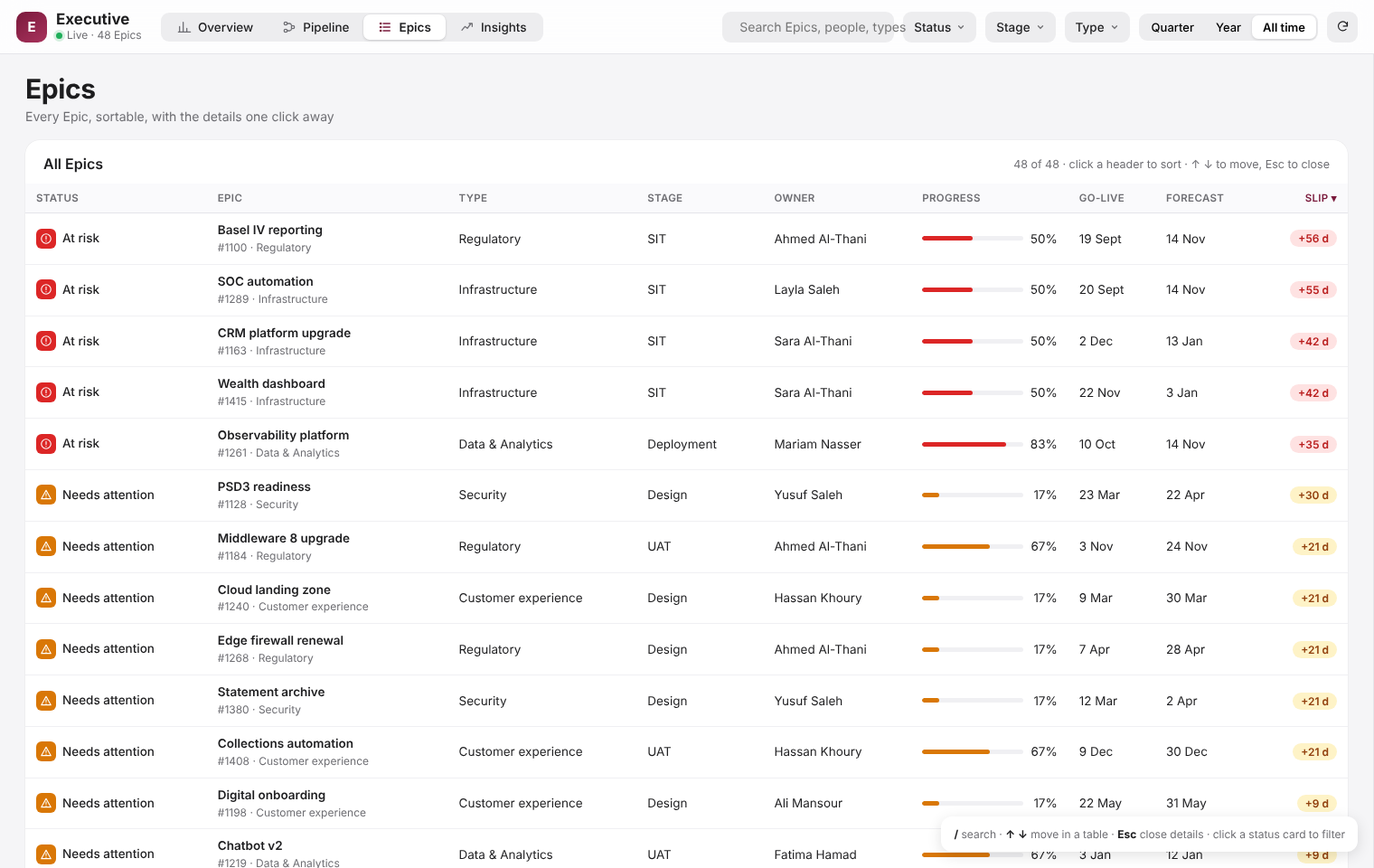
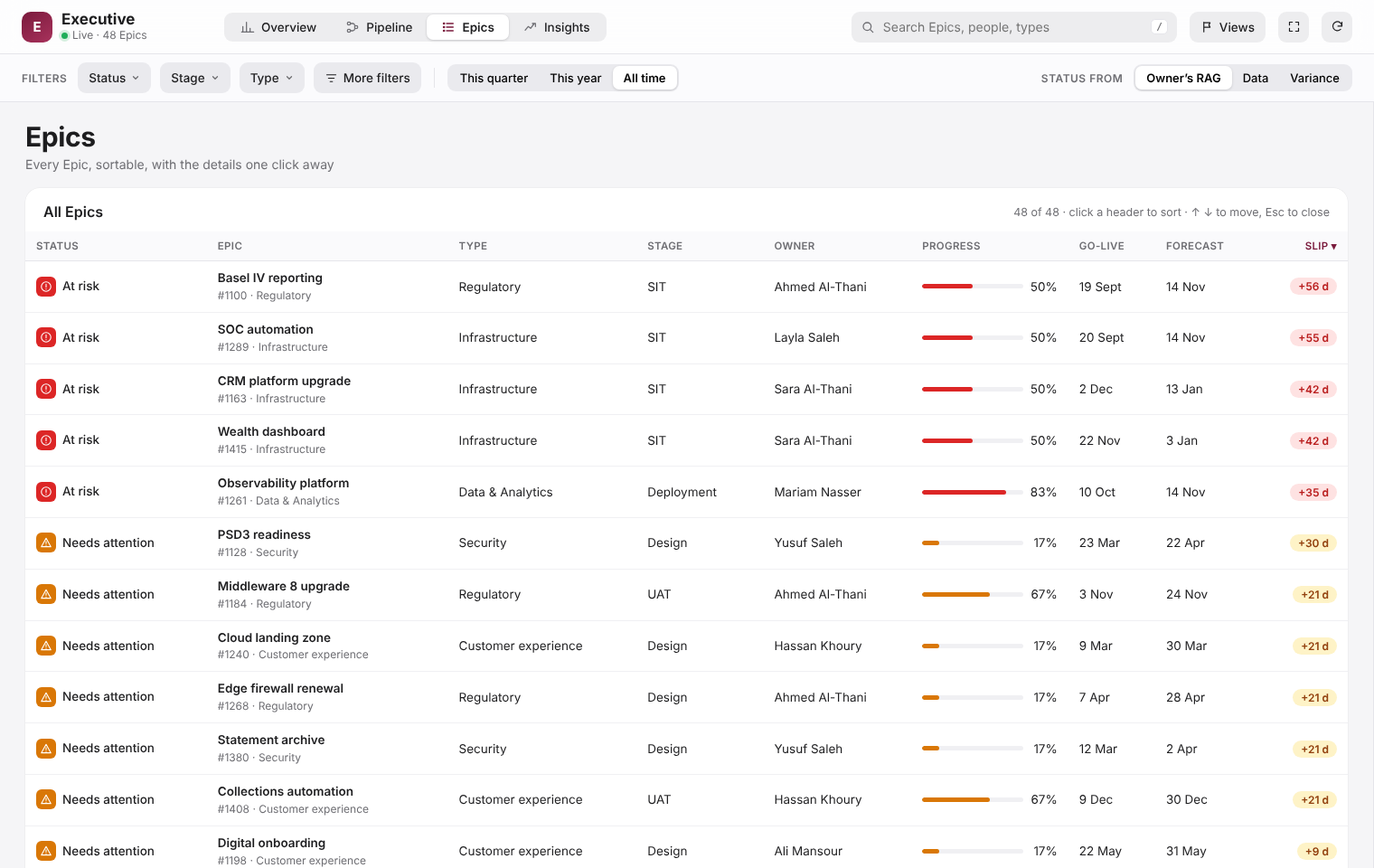
Prototype only: desktop dashboard filter bar, More filters panel, Epics tab mockups, search overlap fixed
Claude-Session: https://claude.ai/code/session_01376dPYr6LN3XTveSHPVJQG

diff --git a/prototypes/exec-dashboard-desktop.html b/prototypes/exec-dashboard-desktop.html
@@ -5,7 +5,7 @@
 .tb{display:flex;align-items:center;gap:14px;padding:12px 24px;background:rgba(255,255,255,.82);backdrop-filter:saturate(180%) blur(20px);-webkit-backdrop-filter:saturate(180%) blur(20px);border-bottom:1px solid var(--sep);flex:none;z-index:20}
 .brand{white-space:nowrap;display:flex;align-items:center;gap:10px;min-width:210px}.logo{width:34px;height:34px;border-radius:10px;background:linear-gradient(145deg,#7a1a3c,#a8325c);display:grid;place-items:center;color:#fff;font:700 15px var(--font)}.brand b{display:block;font:700 17px/1.1 var(--font)}.brand span{font-size:12px;color:var(--l2);display:flex;align-items:center;gap:5px}.live{width:7px;height:7px;border-radius:50%;background:var(--g);box-shadow:0 0 0 3px rgba(31,174,90,.18)}
 .tabs{display:flex;background:rgba(118,118,128,.12);border-radius:9px;padding:2px}.tabs button{display:flex;gap:7px;align-items:center;border:0;background:none;padding:6px 16px;border-radius:7px;font:500 13.5px var(--font);cursor:pointer;color:var(--l1);transition:all .18s}.tabs button svg{width:16px;height:16px;color:var(--l2)}.tabs button.on{background:#fff;box-shadow:0 1px 3px rgba(0,0,0,.14),0 0 0 .5px rgba(0,0,0,.04);font-weight:600}.tabs button.on svg{color:var(--acc)}
-.sp{flex:1}.srch{display:flex;align-items:center;gap:7px;background:rgba(118,118,128,.12);border-radius:9px;padding:0 10px;height:34px;width:240px;color:var(--l2);transition:all .2s}.srch:focus-within{background:#fff;box-shadow:0 0 0 3px rgba(122,26,60,.25);width:320px}.srch svg{width:16px;height:16px}.srch input{flex:1;border:0;background:none;font:14px var(--font);outline:none;color:var(--l1)}.kbd{font:600 11px ui-monospace,Menlo,monospace;border:1px solid var(--sep);border-radius:5px;padding:1px 5px;color:var(--l2);background:#fff}
+.sp{flex:1}.fb{display:flex;align-items:center;gap:10px;padding:9px 24px;background:#fbfbfd;border-bottom:1px solid var(--sep);flex:none;flex-wrap:wrap}.fb .lab{font:600 12px var(--font);color:var(--l2);text-transform:uppercase;letter-spacing:.04em;margin-right:2px}.fb .vr{width:1px;height:22px;background:var(--sep);margin:0 4px}.bdg{background:var(--acc);color:#fff;border-radius:99px;font:700 11px var(--font);padding:0 6px;min-width:18px;text-align:center;line-height:18px}.srch{display:flex;align-items:center;gap:7px;background:rgba(118,118,128,.12);border-radius:9px;padding:0 10px;height:34px;flex:0 1 360px;min-width:200px;color:var(--l2);transition:all .2s}.srch:focus-within{background:#fff;box-shadow:0 0 0 3px rgba(122,26,60,.25)}.srch input{min-width:0;text-overflow:ellipsis}.srch svg{width:16px;height:16px}.srch input{flex:1;border:0;background:none;font:14px var(--font);outline:none;color:var(--l1)}.kbd{font:600 11px ui-monospace,Menlo,monospace;border:1px solid var(--sep);border-radius:5px;padding:1px 5px;color:var(--l2);background:#fff}
 .pillb{display:flex;align-items:center;gap:6px;height:34px;border:0;border-radius:9px;padding:0 12px;background:rgba(118,118,128,.12);font:500 13.5px var(--font);cursor:pointer;color:var(--l1);transition:all .15s;white-space:nowrap}.pillb:hover{background:rgba(118,118,128,.2)}.pillb.on{background:rgba(122,26,60,.12);color:var(--acc);font-weight:600}.pillb svg{width:15px;height:15px}.pillb .cv{width:10px;height:10px;opacity:.6}.ibtn{width:34px;height:34px;padding:0;justify-content:center}
 .per{display:flex;background:rgba(118,118,128,.12);border-radius:9px;padding:2px}.per button{white-space:nowrap;border:0;background:none;padding:5px 12px;border-radius:7px;font:500 13px var(--font);cursor:pointer}.per button.on{background:#fff;box-shadow:0 1px 3px rgba(0,0,0,.14);font-weight:600}
 .body{flex:1;display:flex;min-height:0}main{flex:1;min-width:0;overflow-y:auto;padding:22px 28px 40px}main::-webkit-scrollbar,.insp::-webkit-scrollbar,.scr::-webkit-scrollbar{width:10px}main::-webkit-scrollbar-thumb,.insp::-webkit-scrollbar-thumb,.scr::-webkit-scrollbar-thumb{background:#d1d1d6;border-radius:5px;border:2px solid transparent;background-clip:content-box}
@@ -18,7 +18,7 @@
 .pill{display:inline-flex;align-items:center;gap:4px;border-radius:99px;padding:2px 9px;font:600 12px var(--font);white-space:nowrap}.pill.r{background:#fee2e2;color:#b91c1c}.pill.a{background:#fef3c7;color:#92400e}.pill.g{background:#dcfce7;color:#166534}.pill.n{background:var(--fill);color:#444}
 .dot{display:inline-block;width:9px;height:9px;border-radius:50%}.stk{display:flex;height:8px;border-radius:99px;overflow:hidden;background:var(--fill)}.stk i{display:block;border-right:1.5px solid #fff}.stk i:last-child{border:0}.prog{height:5px;border-radius:3px;background:var(--fill);overflow:hidden}.prog i{display:block;height:100%;border-radius:3px}
 table.t{width:100%;border-collapse:collapse;font-size:13.5px}table.t th{position:sticky;top:0;background:#fafafc;text-align:left;font:600 11.5px var(--font);color:var(--l2);padding:9px 12px;text-transform:uppercase;letter-spacing:.03em;border-bottom:1px solid var(--sep);white-space:nowrap;cursor:pointer;user-select:none;z-index:2}table.t th.r,table.t td.r{text-align:right}table.t th.s{color:var(--acc)}table.t th.s:after{content:" ▾"}table.t th.s.up:after{content:" ▴"}
-table.t td{padding:9px 12px;border-bottom:1px solid #f0f0f3;white-space:nowrap}table.t tr.rw{cursor:pointer;transition:background .1s}table.t tr.rw:hover td{background:#faf5f7}table.t tr.rw.sel td{background:#f6e9ee}table.t tr.rw:focus{outline:none}.ins table.cmp th:nth-child(4),.ins table.cmp td:nth-child(4){display:none}table.t td.ti{max-width:280px;overflow:hidden;text-overflow:ellipsis}table.t td.ti b{font-weight:600;display:block;overflow:hidden;text-overflow:ellipsis}table.t td.ti span{color:var(--l2);font-size:12px}.st{display:inline-flex;align-items:center;gap:7px;font-weight:500}.st i{width:22px;height:22px;border-radius:6px;display:grid;place-items:center;color:#fff}.st svg{width:14px;height:14px}
+table.t td{padding:9px 12px;border-bottom:1px solid #f0f0f3;white-space:nowrap}table.t tr.rw{cursor:pointer;transition:background .1s}table.t tr.rw:hover td{background:#faf5f7}table.t tr.rw.sel td{background:#f6e9ee}table.t tr.rw:focus{outline:none}.ins .epicsT th:nth-child(3),.ins .epicsT td:nth-child(3),.ins .epicsT th:nth-child(5),.ins .epicsT td:nth-child(5){display:none}.ins table.cmp th:nth-child(4),.ins table.cmp td:nth-child(4){display:none}table.t td.ti{max-width:280px;overflow:hidden;text-overflow:ellipsis}table.t td.ti b{font-weight:600;display:block;overflow:hidden;text-overflow:ellipsis}table.t td.ti span{color:var(--l2);font-size:12px}.st{display:inline-flex;align-items:center;gap:7px;font-weight:500}.st i{width:22px;height:22px;border-radius:6px;display:grid;place-items:center;color:#fff}.st svg{width:14px;height:14px}
 .scr{overflow:auto;max-height:420px}.flush .scr{max-height:none}
 .donutrow{display:flex;align-items:center;gap:18px}.ring{position:relative;width:104px;height:104px;flex:none}.ring svg{transform:rotate(-90deg)}.ring b{position:absolute;inset:0;display:grid;place-items:center;font:700 24px var(--font)}.kv{flex:1;display:grid;gap:10px}.kv div{display:flex;justify-content:space-between;font-size:14px}.kv span{color:var(--l2)}
 .pr{display:grid;grid-template-columns:96px 1fr 28px;gap:10px;align-items:center;padding:6px 0;cursor:pointer;border-radius:8px}.pr:hover{background:#faf5f7}.pr b{text-align:right}
@@ -46,9 +46,10 @@ table.t td{padding:9px 12px;border-bottom:1px solid #f0f0f3;white-space:nowrap}t
 .menu{position:fixed;z-index:100;background:rgba(255,255,255,.94);backdrop-filter:blur(20px);-webkit-backdrop-filter:blur(20px);border-radius:12px;box-shadow:0 12px 40px rgba(0,0,0,.2),0 0 0 .5px rgba(0,0,0,.08);min-width:200px;padding:5px;animation:pop .14s ease}.menu button{display:flex;width:100%;justify-content:space-between;align-items:center;gap:18px;border:0;background:none;padding:7px 10px;border-radius:7px;font:14px var(--font);cursor:pointer;text-align:left}.menu button:hover{background:var(--acc);color:#fff}.menu button:hover svg{color:#fff}.menu svg{width:14px;height:14px;color:var(--acc)}.menu hr{border:0;border-top:1px solid var(--sep);margin:4px 8px}
 @keyframes pop{from{opacity:0;transform:translateY(-4px) scale(.98)}to{opacity:1;transform:none}}.fade{animation:fin .3s ease both}@keyframes fin{from{opacity:0;transform:translateY(6px)}to{opacity:1;transform:none}}
 .chipsr{display:flex;gap:8px;align-items:center;padding:0 0 14px;flex-wrap:wrap}.fc{display:inline-flex;gap:6px;align-items:center;background:#f6e9ee;color:var(--acc);border-radius:99px;padding:3px 6px 3px 12px;font:500 12.5px var(--font)}.fc button{border:0;background:none;color:var(--acc);cursor:pointer;width:18px;height:18px;border-radius:9px;display:grid;place-items:center;padding:0}.fc button:hover{background:rgba(122,26,60,.15)}.fc svg{width:11px;height:11px}.clr{border:0;background:none;color:var(--acc);font:500 12.5px var(--font);cursor:pointer}
+.more{position:fixed;z-index:100;width:560px;background:rgba(255,255,255,.96);backdrop-filter:blur(20px);border-radius:16px;box-shadow:0 16px 48px rgba(0,0,0,.22),0 0 0 .5px rgba(0,0,0,.08);padding:16px 18px;animation:pop .14s ease}.more h5{margin:12px 0 7px;font:600 11.5px var(--font);text-transform:uppercase;letter-spacing:.04em;color:var(--l2)}.more h5:first-child{margin-top:0}.more .cs{display:flex;gap:6px;flex-wrap:wrap}.more .c{border:0;border-radius:99px;background:var(--fill);padding:5px 12px;font:500 13px var(--font);cursor:pointer;transition:all .12s}.more .c:hover{background:#e7e7ec}.more .c.on{background:var(--acc);color:#fff}.more .c.off{opacity:.5;cursor:default}.more .ft{display:flex;justify-content:space-between;align-items:center;margin-top:16px;padding-top:12px;border-top:1px solid var(--sep);font-size:12.5px;color:var(--l2)}.more .ft button{border:0;background:none;color:var(--acc);font:600 13px var(--font);cursor:pointer}
 .toast{position:fixed;bottom:22px;left:50%;transform:translate(-50%,20px);background:rgba(30,30,32,.9);color:#fff;border-radius:99px;padding:9px 18px;font-size:13px;opacity:0;transition:all .25s;z-index:200;pointer-events:none}.toast.on{opacity:1;transform:translate(-50%,0)}
 .empty{text-align:center;color:var(--l2);padding:34px 20px}.help{transition:opacity .6s;position:fixed;right:18px;bottom:18px;background:#fff;border-radius:12px;box-shadow:0 4px 16px rgba(0,0,0,.12);padding:10px 14px;font-size:12px;color:var(--l2);z-index:30;line-height:1.6}.help b{color:var(--l1)}
-@media (max-width:1600px){.kbd{display:none}.srch{width:190px;flex:0 1 190px}.srch:focus-within{width:260px}.brand{min-width:150px}.tb{gap:10px;padding:12px 18px}}@media (max-width:1280px){.sts{grid-template-columns:repeat(5,1fr)}.s4.hero{grid-column:span 12}}
+@media (max-width:1400px){.kbd{display:none}.brand{min-width:150px}.tb{gap:10px;padding:12px 18px}.tabs button{padding:6px 11px}}@media (max-width:1280px){.sts{grid-template-columns:repeat(5,1fr)}.s4.hero{grid-column:span 12}}
 @media (prefers-reduced-motion:reduce){*{animation:none!important;transition:none!important}}
 </style></head><body><script>const $=(s,r=document)=>r.querySelector(s),$$=(s,r=document)=>[...r.querySelectorAll(s)];
 const TODAY=new Date("2026-10-31T00:00:00Z"),DAY=864e5,iso=d=>new Date(d).toISOString().slice(0,10),addD=(d,n)=>new Date(+new Date(d)+n*DAY);
@@ -80,9 +81,10 @@ const cnt=(a,f)=>a.filter(f).length,by=(a)=>{const o={red:0,amber:0,green:0,idle
 const periodOk=e=>{const g=new Date(e.goLive),m=g.getUTCMonth(),y=g.getUTCFullYear();return S.period==="all"||(S.period==="quarter"?(y===2026&&Math.floor(m/3)===3):y===2026)};
 
 // ---------- state + helpers
-const S={tab:"overview",period:"all",fs:null,fst:null,ft:null,q:"",field:"type",mode:"bars",sel:null,sort:{k:"slip",d:-1},helpHidden:false};
-const base=()=>EP.filter(periodOk);
-let filt=()=>{let a=base();if(S.fs)a=a.filter(e=>e.status===S.fs);if(S.fst)a=a.filter(e=>e.stage===S.fst);if(S.ft)a=a.filter(e=>e.type===S.ft);if(S.q)a=a.filter(e=>(e.title+" "+e.pm+" "+e.type+" "+e.id+" "+e.stage).toLowerCase().includes(S.q.toLowerCase()));return a};
+const S={tab:"overview",period:"all",fs:null,fst:null,ft:null,q:"",more:{state:new Set(),qtr:new Set(),pm:new Set(),mv:new Set()},src:"rag",field:"type",mode:"bars",sel:null,sort:{k:"slip",d:-1},helpHidden:false};
+const moreOk=e=>{const m=S.more;return(!m.state.size||m.state.has(e.state==="done"?"Done":e.state==="idle"?"Not started":"Active"))&&(!m.qtr.size||m.qtr.has(e.q))&&(!m.pm.size||m.pm.has(e.pm))&&(!m.mv.size||m.mv.has(e.hist.length?"Moved":"Never moved"))};
+const base=()=>EP.filter(e=>periodOk(e)&&(!S.ft||e.type===S.ft)&&moreOk(e));
+let filt=()=>{let a=base();if(S.fs)a=a.filter(e=>e.status===S.fs);if(S.fst)a=a.filter(e=>e.stage===S.fst);if(S.q)a=a.filter(e=>(e.title+" "+e.pm+" "+e.type+" "+e.id+" "+e.stage).toLowerCase().includes(S.q.toLowerCase()));return a};
 const pill=s=>`<span class="pill ${s==="red"?"r":s==="amber"?"a":s==="green"||s==="done"?"g":"n"}">${ST[s].n}</span>`;
 const stIc=s=>`<span class="st"><i style="background:${ST[s].c}">${ic(ST[s].i)}</i></span>`;
 const mix=(c,tot)=>`<div class="stk">${ORD.filter(s=>c[s]).map(s=>`<i style="width:${c[s]/tot*100}%;background:${ST[s].c}" title="${ST[s].n}: ${c[s]}"></i>`).join("")}</div>`;
@@ -121,7 +123,7 @@ function pipeline(){const b=base(),st=STAGES.map((n,i)=>{const a=b.filter(e=>e.s
  return`<div class="fade">${w?`<div class="bn">${ic("warn")}<div><b>${w.n}</b> is where work is piling up: ${w.a.length} Epics${w.avg?`, ${w.avg} days in stage on average`:""}, <b>${w.stuck}</b> stuck over 45 days and <b>${w.beh}</b> behind for the stage.</div></div>`:""}
  <div class="pipe">${st.map(s=>`<div class="ps${S.fst===s.n?" on":""}" data-stage="${s.n}"><div class="h"><span class="num">${s.i+1}</span><b>${s.n}</b><span class="c">${s.a.length} Epics</span></div>${s.a.length?mix(s.c,s.a.length):'<div class="stk"></div>'}<div class="m"><div><span>Avg time in stage</span><b>${s.avg===null?"–":s.avg+" d"}</b></div><div><span>Stuck &gt; 45 d</span><b class="${s.stuck?"r":""}">${s.stuck}</b></div><div><span>Behind for stage</span><b class="${s.beh?"a":""}">${s.beh}</b></div></div><div class="ct"><span>Counts as ${SPCT[s.i]}% done</span></div></div>`).join("")}</div>
  <div class="card flush"><h3>${S.fst?S.fst+": ":""}Stuck, behind or at risk <small>${list.length} Epics · click a stage above to filter</small></h3>${epicTable(list,["status","title","stage","why","pm","goLive","slip"])}</div></div>`}
-function epics(){const a=filt();return`<div class="fade"><div class="card flush"><h3>All Epics <small>${a.length} of ${base().length} · click a header to sort · ↑ ↓ to move, Esc to close</small></h3><div class="scr" style="max-height:none">${epicTable(a,["status","title","type","stage","pm","pct","goLive","fc","slip"]).replace('<div class="scr">','<div>')}</div></div></div>`}
+function epics(){const a=filt();return`<div class="fade"><div class="card flush epicsT"><h3>All Epics <small>${a.length} of ${base().length} · click a header to sort · ↑ ↓ to move, Esc to close</small></h3><div class="scr" style="max-height:none">${epicTable(a,["status","title","type","stage","pm","pct","goLive","fc","slip"]).replace('<div class="scr">','<div>')}</div></div></div>`}
 function insights(){const b=base();const dn=b.filter(e=>e.doneAt),ot=dn.length?Math.round(100*cnt(dn,e=>e.doneAt<=e.goLive)/dn.length):0,late=dn.filter(e=>e.doneAt>e.goLive),avgL=late.length?Math.round(late.reduce((s,e)=>s+(new Date(e.doneAt)-new Date(e.goLive))/DAY,0)/late.length):0;
  return`<div class="fade"><div class="g"><div class="card s8">${byField(b)}</div><div class="card s4"><h3>Delivery performance <small>Epics that reached Done</small></h3><div class="donutrow" style="margin-bottom:14px"><div class="ring">${ring(ot,104,11,ot>=70?"#1fae5a":ot>=50?"#d97706":"#dc2626","#eee")}<b>${ot}%</b></div><div class="kv"><div><span>On time</span><b>${cnt(dn,e=>e.doneAt<=e.goLive)} of ${dn.length}</b></div><div><span>Avg days late</span><b>${avgL} d</b></div></div></div><div style="font-size:12.5px;color:var(--l2)">On time = delivered on or before its go-live date. Delivered date comes from the work item history.</div>${late.length?`<h3 style="margin:18px 0 6px;font-size:14px">Biggest delays</h3>${late.map(e=>({e,d:Math.round((new Date(e.doneAt)-new Date(e.goLive))/DAY)})).sort((x,y)=>y.d-x.d).slice(0,4).map(x=>`<div class="pr" data-ep="${x.e.id}" style="grid-template-columns:1fr auto"><span>${x.e.title}</span><span class="pill r">+${x.d} d</span></div>`).join("")}`:""}</div></div>
  <div class="g"><div class="card s7">${quarters(b)}</div><div class="card flush s5"><h3>Go-live changes <small>moved most often</small></h3>${epicTable(b.filter(e=>e.hist.length).sort((x,y)=>y.hist.length-x.hist.length).slice(0,6),["title","goLive","moves"],true)}</div></div></div>`}
@@ -137,31 +139,40 @@ function inspector(){const el=$("#insp"),e=EP.find(x=>x.id===S.sel);if(!e){el.cl
 function select(id){S.sel=id;$("#main").classList.toggle("ins",!!id);inspector();$$("tr.rw[data-ep]").forEach(r=>r.classList.toggle("sel",+r.dataset.ep===id));$$(".tdot").forEach(d=>d.classList.toggle("sel",+d.dataset.ep===id));if(id){const r=$(`tr.rw[data-ep="${id}"]`);r&&r.scrollIntoView({block:"nearest"})}}
 // ---------- menu
 function menu(btn,items,cur,on){closeMenu();const r=btn.getBoundingClientRect(),m=document.createElement("div");m.className="menu";m.innerHTML=items.map(([k,l])=>k==="-"?"<hr>":`<button data-k="${k}">${l}${String(k)===String(cur)?ic("tick"):""}</button>`).join("");document.body.append(m);const w=m.offsetWidth;m.style.top=r.bottom+6+"px";m.style.left=Math.max(8,Math.min(r.left,innerWidth-w-8))+"px";$$("button",m).forEach(b=>b.onclick=ev=>{ev.stopPropagation();closeMenu();on(b.dataset.k)});setTimeout(()=>document.addEventListener("pointerdown",ev=>{if(!ev.target.closest(".menu"))closeMenu()},{once:true,capture:true}),0)}
-const closeMenu=()=>$$(".menu").forEach(m=>m.remove());
+const closeMenu=()=>$$(".menu,.more").forEach(m=>m.remove());
 // ---------- shell
 const TABS=[["overview","Overview","overview"],["pipeline","Pipeline","pipeline"],["epics","Epics","list"],["insights","Insights","insights"]];
 const TITLES={overview:["Executive overview","Where the portfolio stands today and where you need to step in"],pipeline:["Delivery pipeline","Where Epics are in delivery and where work piles up"],epics:["Epics","Every Epic, sortable, with the details one click away"],insights:["Insights","How the portfolio is performing"]};
 function shell(){document.body.innerHTML=`<div class="win"><header class="tb"><div class="brand"><div class="logo">E</div><div><b>Executive</b><span><i class="live"></i>Live · ${EP.length} Epics</span></div></div>
  <nav class="tabs" role="tablist">${TABS.map(([k,l,i])=>`<button role="tab" data-tab="${k}" class="${S.tab===k?"on":""}">${ic(i)}${l}</button>`).join("")}</nav><div class="sp"></div>
  <label class="srch">${ic("search")}<input id="q" placeholder="Search Epics, people, types" value="${S.q}"><span class="kbd">/</span></label>
- <button class="pillb" id="bStatus"></button><button class="pillb" id="bStage"></button><button class="pillb" id="bType"></button>
- <div class="per" id="per">${[["quarter","Quarter"],["year","Year"],["all","All time"]].map(([k,l])=>`<button data-p="${k}" class="${S.period===k?"on":""}">${l}</button>`).join("")}</div>
+ <button class="pillb" id="bViews" title="Saved views">${ic("flag")}Views</button><button class="pillb ibtn" id="bFull" aria-label="Full screen" title="Full screen"><svg viewBox="0 0 24 24" fill="none" stroke="currentColor" stroke-width="1.9" stroke-linecap="round" stroke-linejoin="round"><path d="M4 9V4h5M20 9V4h-5M4 15v5h5M20 15v5h-5"/></svg></button>
  <button class="pillb ibtn" id="rf" aria-label="Refresh" title="Refresh">${ic("refresh")}</button></header>
+ <div class="fb"><span class="lab">Filters</span><button class="pillb" id="bStatus"></button><button class="pillb" id="bStage"></button><button class="pillb" id="bType"></button><button class="pillb" id="bMore">${ic("filter")}More filters<span class="bdg" id="mcnt" style="display:none"></span></button><i class="vr"></i>
+ <div class="per" id="per">${[["quarter","This quarter"],["year","This year"],["all","All time"]].map(([k,l])=>`<button data-p="${k}" class="${S.period===k?"on":""}">${l}</button>`).join("")}</div><div class="sp"></div>
+ <span class="lab" title="Which status the dashboard shows">Status from</span><div class="per" id="src">${[["rag","Owner’s RAG"],["data","Data"],["var","Variance"]].map(([k,l])=>`<button data-s="${k}" class="${S.src===k?"on":""}">${l}</button>`).join("")}</div></div>
  <div class="body"><main id="main"></main><aside class="insp" id="insp" aria-label="Epic details"></aside></div></div><div class="toast"></div>
  <div class="help"><b>/</b> search · <b>↑ ↓</b> move in a table · <b>Esc</b> close details · click a status card to filter</div>`;
  $$("[data-tab]").forEach(b=>b.onclick=()=>go(b.dataset.tab));$$("#per button").forEach(b=>b.onclick=()=>{S.period=b.dataset.p;$$("#per button").forEach(x=>x.classList.toggle("on",x===b));paint()});
+ $("#bViews").onclick=()=>toast("Saved views: your filters and layout, per person");$("#bFull").onclick=()=>toast("Full screen");$$("#src button").forEach(b=>b.onclick=()=>{S.src=b.dataset.s;$$("#src button").forEach(x=>x.classList.toggle("on",x===b));toast(b.dataset.s==="rag"?"Status shown: the owner’s RAG":b.dataset.s==="data"?"Status shown: calculated from the data":"Status shown: where the RAG and the data disagree")});$("#bMore").onclick=e=>morePanel(e.currentTarget);
  $("#rf").onclick=()=>{const b=$("#rf");b.style.transition="transform .6s";b.style.transform="rotate(360deg)";setTimeout(()=>{b.style.transform="";toast("Refreshed just now")},650)};
  $("#q").oninput=e=>{S.q=e.target.value;if(S.tab!=="epics"&&S.q){S.tab="epics";$$("[data-tab]").forEach(x=>x.classList.toggle("on",x.dataset.tab==="epics"))}paint(true)};
  $("#bStatus").onclick=e=>menu(e.currentTarget,[["","All statuses"],["-","-"],...ORD.map(s=>[s,ST[s].n])],S.fs||"",v=>{S.fs=v||null;if(S.tab!=="epics"&&v)S.tab="epics";sync();paint()});
  $("#bStage").onclick=e=>menu(e.currentTarget,[["","All stages"],["-","-"],...STAGES.map(s=>[s,s])],S.fst||"",v=>{S.fst=v||null;sync();paint()});
  $("#bType").onclick=e=>menu(e.currentTarget,[["","All types"],["-","-"],...TYPES.map(s=>[s,s])],S.ft||"",v=>{S.ft=v||null;sync();paint()});sync();paint()}
-function sync(){const set=(id,l,v,ic_)=>{const b=$(id);b.classList.toggle("on",!!v);b.innerHTML=`${l}${v?": "+v:""}<svg class="cv" viewBox="0 0 24 24" fill="none" stroke="currentColor" stroke-width="3" stroke-linecap="round"><path d="M6 9l6 6 6-6"/></svg>`};set("#bStatus","Status",S.fs&&ST[S.fs].n);set("#bStage","Stage",S.fst);set("#bType","Type",S.ft);$$("[data-tab]").forEach(x=>x.classList.toggle("on",x.dataset.tab===S.tab))}
+function sync(){const set=(id,l,v,ic_)=>{const b=$(id);b.classList.toggle("on",!!v);b.innerHTML=`${l}${v?": "+v:""}<svg class="cv" viewBox="0 0 24 24" fill="none" stroke="currentColor" stroke-width="3" stroke-linecap="round"><path d="M6 9l6 6 6-6"/></svg>`};const mc=Object.values(S.more).reduce((n,x)=>n+x.size,0),mb=$("#mcnt");if(mb){mb.style.display=mc?"inline-block":"none";mb.textContent=mc;$("#bMore").classList.toggle("on",mc>0)}set("#bStatus","Status",S.fs&&ST[S.fs].n);set("#bStage","Stage",S.fst);set("#bType","Type",S.ft);$$("[data-tab]").forEach(x=>x.classList.toggle("on",x.dataset.tab===S.tab))}
+function morePanel(btn){closeMenu();const r=btn.getBoundingClientRect(),m=document.createElement("div");m.className="more";m.style.top=r.bottom+6+"px";m.style.left=Math.max(8,Math.min(r.left,innerWidth-580))+"px";
+ const quarters=[...new Set(EP.map(e=>e.q))].sort((x,y)=>(x.slice(3)+x[1]).localeCompare(y.slice(3)+y[1])),pms=[...new Set(EP.map(e=>e.pm))].sort();
+ const grp=(t,k,vals,off)=>`<h5>${t}</h5><div class="cs">${vals.map(v=>`<button class="c${S.more[k]&&S.more[k].has(v)?" on":""}${off?" off":""}" data-k="${k}" data-v="${v}">${v}</button>`).join("")}</div>`;
+ m.innerHTML=grp("State","state",["Not started","Active","Done"])+grp("Go-live quarter","qtr",quarters)+grp("Go-live changes","mv",["Moved","Never moved"])+grp("Owner","pm",pms)+`<h5>Also available (set up in Settings)</h5><div class="cs"><span class="c off">Priority</span><span class="c off">Regulatory flag</span><span class="c off">RAG check</span><span class="c off">Team</span><span class="c off">Your own date field</span></div><div class="ft"><span>Filters apply to every tab. Category fields come from your settings.</span><button id="mclr">Clear these</button></div>`;
+ document.body.append(m);$$(".c[data-k]",m).forEach(b=>b.onclick=ev=>{ev.stopPropagation();const st=S.more[b.dataset.k];st.has(b.dataset.v)?st.delete(b.dataset.v):st.add(b.dataset.v);b.classList.toggle("on");sync();paint()});$("#mclr",m).onclick=()=>{Object.values(S.more).forEach(x=>x.clear());closeMenu();sync();paint()};
+ setTimeout(()=>document.addEventListener("pointerdown",ev=>{if(!ev.target.closest(".more")&&!ev.target.closest("#bMore"))closeMenu()},{once:true,capture:true}),0)}
 function go(t){S.tab=t;if(t!=="epics")S.q=$("#q").value="";sync();paint()}
-function chips(){const c=[];if(S.fs)c.push(["Status: "+ST[S.fs].n,()=>S.fs=null]);if(S.fst)c.push(["Stage: "+S.fst,()=>S.fst=null]);if(S.ft)c.push(["Type: "+S.ft,()=>S.ft=null]);if(S.fieldSel)c.push([FIELDS[S.field][0].replace("By ","")+": "+S.fieldSel,()=>S.fieldSel=null]);return c}
+function chips(){const c=[];if(S.fs)c.push(["Status: "+ST[S.fs].n,()=>S.fs=null]);if(S.fst)c.push(["Stage: "+S.fst,()=>S.fst=null]);if(S.ft)c.push(["Type: "+S.ft,()=>S.ft=null]);const lab={state:"State",qtr:"Go-live",pm:"Owner",mv:"Go-live changes"};for(const [k,set] of Object.entries(S.more))set.forEach(v=>c.push([lab[k]+": "+v,()=>set.delete(v)]));if(S.fieldSel)c.push([FIELDS[S.field][0].replace("By ","")+": "+S.fieldSel,()=>S.fieldSel=null]);return c}
 function paint(keepFocus){const m=$("#main"),top=m.scrollTop,[t,s]=TITLES[S.tab],ch=chips();m.classList.toggle("ins",!!S.sel);const body={overview,pipeline,epics,insights}[S.tab]();
  m.innerHTML=`<div class="ph"><div><h1>${t}</h1><p>${s}</p></div></div>${ch.length?`<div class="chipsr">${ch.map((c,i)=>`<span class="fc">${c[0]}<button data-chip="${i}" aria-label="Remove filter">${ic("x")}</button></span>`).join("")}<button class="clr" id="clr">Clear all</button></div>`:""}${body}`;
  const act=document.activeElement&&document.activeElement.id==="q";m.scrollTop=top;wire(m,ch);inspector();if(keepFocus&&act)$("#q").focus()}
-function wire(m,ch){$$("[data-chip]",m).forEach(b=>b.onclick=()=>{ch[+b.dataset.chip][1]();sync();paint()});const c=$("#clr",m);if(c)c.onclick=()=>{S.fs=S.fst=S.ft=null;S.fieldSel=null;S.q=$("#q").value="";sync();paint()};
+function wire(m,ch){$$("[data-chip]",m).forEach(b=>b.onclick=()=>{ch[+b.dataset.chip][1]();sync();paint()});const c=$("#clr",m);if(c)c.onclick=()=>{S.fs=S.fst=S.ft=null;S.fieldSel=null;Object.values(S.more).forEach(x=>x.clear());S.q=$("#q").value="";sync();paint()};
  $$("[data-ep]",m).forEach(r=>r.onclick=()=>select(S.sel===+r.dataset.ep&&r.tagName==="TR"?null:+r.dataset.ep));$$("[data-tab]",m).forEach(a=>a.onclick=()=>go(a.dataset.tab));
  $$("[data-st]",m).forEach(a=>a.onclick=()=>{S.fs=a.dataset.st;S.tab="epics";sync();paint()});
  $$("[data-stage]",m).forEach(p=>p.onclick=()=>{S.fst=S.fst===p.dataset.stage?null:p.dataset.stage;sync();paint()});
@@ -172,7 +183,7 @@ function wire(m,ch){$$("[data-chip]",m).forEach(b=>b.onclick=()=>{ch[+b.dataset.
  $$("[data-q]",m).forEach(r=>r.onclick=()=>toast(r.dataset.q+": "+EP.filter(e=>e.q===r.dataset.q).length+" Epics go live"))}
 // fieldSel narrows the Epics list too
 const _filt=filt;filt=function(){let a=_filt();if(S.fieldSel){const key=FIELDS[S.field][1];a=a.filter(e=>key(e)===S.fieldSel)}return a};
-document.addEventListener("keydown",e=>{if(e.key==="/"&&document.activeElement.tagName!=="INPUT"){e.preventDefault();$("#q").focus()}else if(e.key==="Escape"){if(document.activeElement.tagName==="INPUT"){document.activeElement.blur()}else select(null)}
+document.addEventListener("keydown",e=>{if(e.key==="/"&&document.activeElement.tagName!=="INPUT"){e.preventDefault();$("#q").focus()}else if(e.key==="Escape"){if($(".menu,.more")){closeMenu();return}if(document.activeElement.tagName==="INPUT"){document.activeElement.blur()}else select(null)}
  else if((e.key==="ArrowDown"||e.key==="ArrowUp")&&document.activeElement.tagName!=="INPUT"){const rows=$$("#main tr.rw[data-ep]");if(!rows.length)return;e.preventDefault();let i=rows.findIndex(r=>+r.dataset.ep===S.sel);i=e.key==="ArrowDown"?Math.min(rows.length-1,i+1):Math.max(0,i<0?0:i-1);select(+rows[i].dataset.ep)}});
 shell();setTimeout(()=>{const h=$('.help');if(h){h.style.opacity=0;setTimeout(()=>h.remove(),700)}},7000);
 </script></body></html>
